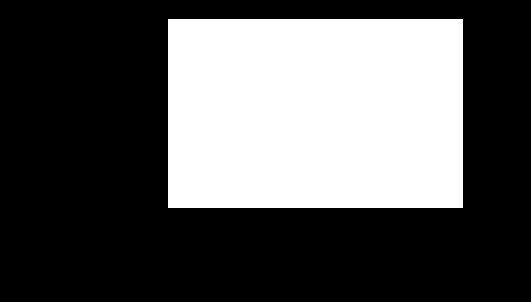
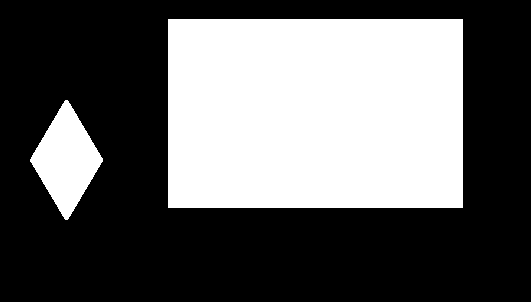
复数模板边缘检测

Changed region(s): [[0.0603, 0.3278, 0.2109, 0.745]]

diff --git a/ship/complexg.m b/ship/complexg.m
@@ -1,0 +1,67 @@
+clc;clear ;close all;
+I=imread('12.bmp');
+[m,n,o]=size(I);
+if o~=1
+    I=rgb2gray(I);
+end
+%I=imresize(I,0.5);
+I=bgreduction(I,0.6);
+subplot(221)
+imshow(I)
+temp=[1j+1,1,-1j+1;
+        1j,0,-1j;
+      1j-1,-1,-1j-1];
+%temp=temp';
+%cg=conv2(double(I),temp,'same');
+cg=filter2(temp,double(I),'valid');
+x=fix(real(cg));
+x(x>200)=0;
+xmax=max(max(x));
+y=fix(imag(cg));
+ y(y>200)=0;
+ymax=max(max(y));
+
+% y(y<5)=0;
+% y=y/10;
+subplot(222)
+imshow(abs(x),[])
+colormap(hot)
+subplot(223)
+imshow(abs(y),[])
+cga=abs(cg);
+subplot(224)
+imshow(cga,[])
+k=0;
+res=zeros(m,n);
+for i=5:m-5
+    for j=5:n-5        
+            if or(abs(x(i,j))>xmax/3,abs(y(i,j))>ymax/3)
+%              if k>2
+%                 k=0;
+%                 else 
+%                 k=k+1;
+%                 break;
+%              end
+%             hold on
+            if x>0
+               if y>0
+                   res(i+2,j+2)=255;
+               else
+                   res(i+2,j-2)=255;
+               end
+            else
+                if y>0
+                    res(i-2,j+2)=255;
+                else
+                    res(i-2,j-2)=255;
+                end
+            end
+            %res(i+floor(x(i,j)),j+floor(y(i,j)))=255;
+%             res[j,i],[j+y(i,j),i+x(i,j)],'r','0.3',1)
+            end
+      
+    end
+end
+
+figure
+imshow(res,[])
